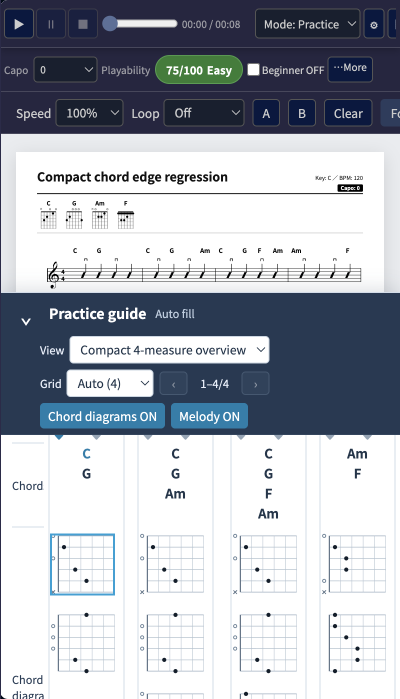
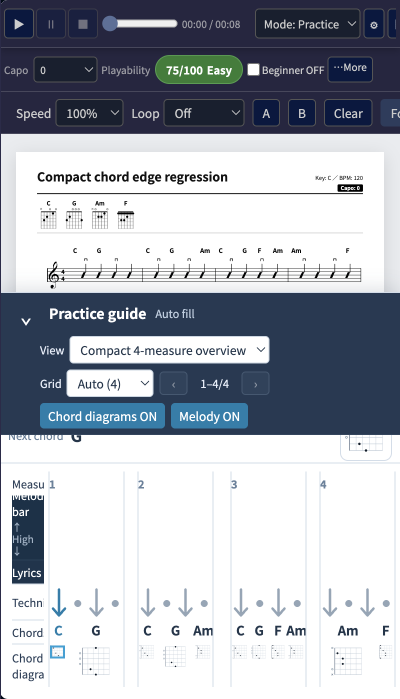
fix(practice): keep compact chord diagrams horizontal

diff --git a/tests/e2e/extension.test.ts b/tests/e2e/extension.test.ts
@@ -1032,8 +1032,8 @@ suite('GuitarDSL Extension E2E Test Suite', () => {
                 panelBackground: getComputedStyle(panel).backgroundColor,
                 diagramCount: diagrams.length,
                 diagramsSquare: diagramGeometry.length > 0 && diagramGeometry.every(item => item.viewBox === '0 0 144 144'
-                  && parseFloat(item.computedWidth) <= 144.5
-                  && Math.abs(parseFloat(item.computedWidth) - item.expectedWidth) <= 1
+                  && parseFloat(item.computedWidth) > 0
+                  && parseFloat(item.computedWidth) <= Math.min(144.5, item.expectedWidth + 1)
                   && Math.abs(parseFloat(item.computedHeight) - parseFloat(item.computedWidth)) <= 1),
                 diagramGeometry,
                 techniqueMarkCount: technique?.querySelectorAll('[data-guide-stroke]').length ?? 0,
@@ -1074,7 +1074,7 @@ suite('GuitarDSL Extension E2E Test Suite', () => {
             assert.strictEqual(compact.panelBackground, 'rgb(255, 255, 255)', 'compact mode keeps the approved white background');
             assert.ok(compact.diagramCount > 0, 'the active bank shows generated chord diagrams');
             assert.strictEqual(compact.diagramsSquare, true,
-              `${width}px diagrams keep their 144x144 viewBox and fit their card: ${JSON.stringify(compact.diagramGeometry)}`);
+              `${width}px diagrams keep their 144x144 viewBox, scale to available intervals, and fit their card: ${JSON.stringify(compact.diagramGeometry)}`);
             assert.ok(compact.compactDiagramCenterOffsetMax <= 2,
               `${width}px compact diagrams use the shared beat-to-x mapping: ${compact.compactDiagramCenterOffsetMax}px`);
             assert.ok(compact.compactChordLabelCenterOffsetMax <= 2,
@@ -1842,14 +1842,22 @@ suite('GuitarDSL Extension E2E Test Suite', () => {
           cardCount: cards.length,
           counts: cards.map(card => card.querySelectorAll('.practice-guide-compact-diagram-event').length),
           rows: cards.map(card => [...card.querySelectorAll('.practice-guide-compact-chord-name')].map(item => Number(item.dataset.guideRow))),
+          diagramRows: cards.map(card => [...card.querySelectorAll('.practice-guide-compact-diagram-event')].map(item => Number(item.dataset.guideRow))),
+          diagramBounds: cards.map(card => [...card.querySelectorAll('.practice-guide-compact-diagram-event svg.practice-guide-diagram')]
+            .map(diagram => { const rect = diagram.getBoundingClientRect(); return { left: rect.left, right: rect.right, top: rect.top }; })),
           pairs
         };
       })())`));
       assert.strictEqual(geometry.viewportWidth, 400, 'the compact guide is rendered at the reviewed 400px viewport');
       assert.strictEqual(geometry.cardCount, 4, 'all four measure cards are visible');
       assert.deepStrictEqual(geometry.counts, [2, 3, 4, 2], 'the fixture covers measures with two, three, and four chords');
-      assert.ok(geometry.rows.every((rows: number[], index: number) => new Set(rows).size === geometry.counts[index]),
-        `short edge spans are packed into separate visual rows: ${JSON.stringify(geometry.rows)}`);
+      assert.ok(geometry.rows.every((rows: number[]) => rows.every(row => row === 0)),
+        `chord names remain on one horizontal row: ${JSON.stringify(geometry.rows)}`);
+      assert.ok(geometry.diagramRows.every((rows: number[]) => rows.every(row => row === 0)),
+        `chord diagrams remain on one horizontal row: ${JSON.stringify(geometry.diagramRows)}`);
+      assert.ok(geometry.diagramBounds.every((bounds: { left: number; right: number; top: number }[]) =>
+        bounds.every((item, index) => index === 0 || (item.left >= bounds[index - 1].right - 1 && Math.abs(item.top - bounds[0].top) <= 3))),
+      `horizontal chord diagrams do not overlap and share one baseline: ${JSON.stringify(geometry.diagramBounds)}`);
       assert.strictEqual(geometry.pairs.length, 11, 'all chord events have a generated diagram');
       assert.ok(geometry.pairs.every((pair: { samePack: boolean; nameChord: string | null; chord: string; aligned: boolean; domCenterOffset: number; diagramInside: boolean; nameInside: boolean; diagramWidth: number; fingerDots: number }) =>
         pair.samePack && pair.nameChord === pair.chord && pair.aligned && pair.diagramInside && pair.nameInside
@@ -1866,6 +1874,74 @@ suite('GuitarDSL Extension E2E Test Suite', () => {
         const image = await fs.readFile(path.resolve(__dirname, '../../../docs/status/evidence/issue-162', filename));
         assert.ok(image.length >= 5000 && image.readUInt32BE(16) === 400,
           'compact chord bounds evidence is captured at the exact 400px viewport');
+      }
+      await resetPreviewWebviewViewport();
+    });
+  });
+
+  test('Issue #162 sample_gozen0jino_page chord diagrams stay in horizontal playback order', async function () {
+    this.timeout(60000);
+    await withWorkbenchSnapshotRestored(async () => {
+      const samplePath = path.resolve(__dirname, '../../../samples/sample_gozen0jino_page.guitardsl');
+      const source = await fs.readFile(samplePath, 'utf8');
+      const doc = await vscode.workspace.openTextDocument({ language: 'guitardsl', content: source });
+      await showAndFocus(doc);
+      await vscode.commands.executeCommand('guitardsl.showPreview', doc.uri);
+      await waitForPreviewDocument();
+      await setPreviewPracticeEnabled(true);
+      await evaluatePreviewWebview<void>("(() => { const view = document.getElementById('practice-guide-view'); view.value = 'compact'; view.dispatchEvent(new Event('change', { bubbles: true })); })()");
+      await setPreviewWebviewViewportWidth(400);
+      await settle(250);
+      for (let page = 0; page < 2; page++) {
+        await evaluatePreviewWebview<void>("document.getElementById('practice-guide-compact-next').click()");
+        await settle(120);
+      }
+      const geometry = JSON.parse(await evaluatePreviewWebview<string>(`JSON.stringify((() => {
+        const cards = [...document.querySelectorAll('#practice-guide-pair-page .practice-guide-compact-measure')];
+        return {
+          viewportWidth: window.innerWidth,
+          measures: cards.map(card => Number(card.dataset.guideMeasureIndex)),
+          cards: cards.map(card => {
+            const cardRect = card.getBoundingClientRect();
+            const diagrams = [...card.querySelectorAll('.practice-guide-compact-diagram-event')].map(diagramEvent => {
+              const diagram = diagramEvent.querySelector('svg.practice-guide-diagram');
+              const rect = diagram.getBoundingClientRect();
+              const name = [...card.querySelectorAll('.practice-guide-compact-chord-name')]
+                .find(item => item.dataset.guidePackKey === diagramEvent.dataset.guidePackKey);
+              return { chord: diagramEvent.dataset.guideChord, nameChord: name?.dataset.guideChord ?? null,
+                row: Number(diagramEvent.dataset.guideRow), left: rect.left, right: rect.right, top: rect.top,
+                inside: rect.left >= cardRect.left - 1 && rect.right <= cardRect.right + 1,
+                fingerDots: diagram.querySelectorAll('circle[fill="#121e2b"]').length };
+            });
+            return { chords: diagrams.map(item => item.chord), diagrams };
+          })
+        };
+      })())`));
+      assert.strictEqual(geometry.viewportWidth, 400, 'the named sample is checked at 400 CSS px');
+      assert.deepStrictEqual(geometry.measures, [4, 5, 6, 7], 'the sample page includes both measures with multiple chords');
+      assert.deepStrictEqual(geometry.cards.map((card: { chords: string[] }) => card.chords.length), [1, 1, 2, 2],
+        'the sample page contains two measures with two simultaneous chord changes');
+      for (const card of geometry.cards) {
+        assert.ok(card.diagrams.every((diagram: { row: number }) => diagram.row === 0),
+          `sample measure diagrams use one horizontal row: ${JSON.stringify(card.diagrams)}`);
+        assert.ok(card.diagrams.every((diagram: { inside: boolean; fingerDots: number; nameChord: string | null; chord: string }) =>
+          diagram.inside && diagram.fingerDots > 0 && diagram.nameChord === diagram.chord),
+        `sample chord names, diagrams, and finger dots remain visible: ${JSON.stringify(card.diagrams)}`);
+        assert.ok(card.diagrams.every((diagram: { left: number; right: number; top: number }, index: number) =>
+          index === 0 || (diagram.left >= card.diagrams[index - 1].right - 1 && Math.abs(diagram.top - card.diagrams[0].top) <= 3)),
+        `sample chord diagrams stay side by side without overlap: ${JSON.stringify(card.diagrams)}`);
+      }
+
+      if (process.env.GUITARDSL_E2E_CAPTURE_SCREENSHOTS === '1') {
+        const locale = vscode.env.language.toLowerCase().split('-')[0];
+        const theme = (process.env.GUITARDSL_E2E_THEME ?? 'Default Dark Modern').toLowerCase().includes('light') ? 'light' : 'dark';
+        const filename = `practice-guide-horizontal-sample-issue162-${locale}-${theme}-400.png`;
+        await evaluatePreviewWebview<void>("(() => { const layout = document.querySelector('.practice-guide-layout'); const chordLane = document.querySelector('.practice-guide-compact-measure [data-guide-lane=\"chord\"]'); layout.scrollTop += chordLane.getBoundingClientRect().top - layout.getBoundingClientRect().top - 8; })()");
+        await settle(200);
+        await capturePreviewWebviewScreenshot(filename, 162, 400);
+        const image = await fs.readFile(path.resolve(__dirname, '../../../docs/status/evidence/issue-162', filename));
+        assert.ok(image.length >= 5000 && image.readUInt32BE(16) === 400,
+          'the original sample receives exact-width compact chord evidence');
       }
       await resetPreviewWebviewViewport();
     });

diff --git a/src/render/previewHtml.ts b/src/render/previewHtml.ts
@@ -2136,11 +2136,38 @@ ${cspMeta}
         const key = [slotWidth.toFixed(3), grid, melodyVisible, diagramsVisible].join(':');
         if (guideCompactLayoutKey === key) return guideCompactLayout;
         const maxRows = { lyrics: 0, technique: 0, chord: 0 };
+        let diagramSize = 0;
         const measureLayouts = [];
         const inset = 5;
         const pack = (items, measureBeats, lane) => {
           const rowRights = [];
           const ordered = [...items].sort((a, b) => a.beat - b.beat || a.event - b.event || a.order - b.order);
+          if (lane === 'chord') {
+            const centers = ordered.map(item => inset + item.beat / measureBeats * Math.max(0, slotWidth - inset * 2));
+            for (let index = 0; index < ordered.length; index++) {
+              const item = ordered[index];
+              const centerX = centers[index];
+              const halfRoom = Math.min(
+                centerX - inset,
+                slotWidth - inset - centerX,
+                index > 0 ? (centerX - centers[index - 1]) / 2 : Number.POSITIVE_INFINITY,
+                index + 1 < centers.length ? (centers[index + 1] - centerX) / 2 : Number.POSITIVE_INFINITY
+              );
+              item.width = Math.max(1, Math.min(item.width, halfRoom * 2 - 2));
+              for (const node of item.nodes) {
+                node.dataset.guideRow = '0';
+                node.dataset.guideLayoutX = String(centerX);
+                node.dataset.guideLayoutWidth = String(Math.min(
+                  Math.max(1, Number(node.dataset.guideLayoutWidth) || item.width), item.width
+                ));
+                if (node.classList.contains('practice-guide-compact-diagram-event')) {
+                  diagramSize = Math.max(diagramSize, Number(node.dataset.guideLayoutWidth) || 0);
+                }
+              }
+            }
+            maxRows.chord = Math.max(maxRows.chord, ordered.length > 0 ? 1 : 0);
+            return;
+          }
           for (const item of ordered) {
             const x = inset + item.beat / measureBeats * Math.max(0, slotWidth - inset * 2);
             const centerX = Math.max(inset + item.width / 2, Math.min(slotWidth - inset - item.width / 2, x));
@@ -2211,7 +2238,6 @@ ${cspMeta}
           pack([...laneItems.chord.values()], measureBeats, 'chord');
           measureLayouts.push({ occurrenceIndex, svg });
         }
-        const diagramSize = Math.max(0, Math.min(144, slotWidth - 10));
         const laneHeights = {
           ruler: 24,
           melody: melodyVisible ? 64 : 0,
@@ -2333,9 +2359,9 @@ ${cspMeta}
             const text = item.querySelector('text');
             const y = rowY + 16;
             item.setAttribute('transform', 'translate(' + x.toFixed(3) + ' ' + y.toFixed(3) + ')');
-            fitCompactSvgText(text, Math.max(0, slotWidth - 10));
+            fitCompactSvgText(text, Number(item.dataset.guideLayoutWidth) || Math.max(0, slotWidth - 10));
           } else if (lane === 'chord-pair' && item.classList.contains('practice-guide-compact-diagram-event')) {
-            const size = layout.diagramSize;
+            const size = Number(item.dataset.guideLayoutWidth) || layout.diagramSize;
             const y = rowY;
             item.setAttribute('transform', 'translate(' + (x - size / 2).toFixed(3) + ' ' + y.toFixed(3) + ')');
             const nested = item.querySelector('svg');

diff --git a/docs/status/implementation-status.md b/docs/status/implementation-status.md
@@ -13,9 +13,9 @@
 - **状態**: 承認済みImplementation Contract v2を実装し、PR #163の最新レビュー指摘3件を修正した。[PR #163](https://github.com/puchinya/vscode-guitar-dsl/pull/163) はopen。レビュー・CI・current-HEAD self-reviewの最新状態はPR記録を参照。
[1 lines of base64/hex data omitted]
 - **仕様 / 設計 / Help**: `docs/specs/gui_design.md` §2.4、`docs/specs/extension.md` §4.6、`docs/design/preview-rendering-and-export.md` を更新。英語・日本語Helpとmanifestを同期し、生成済み `media/help/` も更新した。
-- **実装**: コンパクト表示を単一SVG座標系へ統一し、実測幅で等幅4スロットを配置する。コード名と図をカード境界内にクランプし、その可視矩形で行を割り当てる。コード省略時は再生出現ごとに直前コードと図を引き継ぎ、明示的な `N.C.` で解除する。継続波は選択グリッドと現在Fractionの1マークだけをcurrent表示する。細いviewportでの奏法記号折返しとカード内縮小、次コード領域の維持、TAB/リズムtie記号とFraction波線、実効BPMに応じた450–900ms fade、fade timer cleanupとreduced-motionも実装した。
-- **画面証拠**: [60枚の実Previewキャプチャと検査条件](evidence/issue-162/README.md)に加えて、レビュー指摘用に400pxの短いコード区間と図を撮影した。E2Eは2/3/4コードの名前・図ペア、図と文字の実DOM境界、指押さえ点、行パックを検査する。
-- **検証**: macOS arm64 / VS Code 1.144.0。修正後の `npm test` はHelp/AI同期PASS、unit **1,229件PASS**、E2E **125件PASS / 6件pending / 0件FAIL**。320–1600px、グリッド4/8/16、密集奏法、rhythm/TAB tie、継続波の16分位置とexclusive end、短区間コード図境界、repeat/volta再生順コード継承、実効テンポfade、速度変更、Pause/Resume、seek、resize、compact/detail切替、AB loop、pagehide disposal、fallback timer、reduced-motionを確認した。`npm test` 内のcompile:all、`check:help`、`check:ai`もPASS。
+  - **実装**: コンパクト表示を単一SVG座標系へ統一し、実測幅で等幅4スロットを配置する。コードダイアグラムは必ず小節内の横一列に置き、コード区間と隣接ダイアグラムの間隔に合わせて幅を調整してカード境界内に収める。コード名も同じ時間位置に合わせる。コード省略時は再生出現ごとに直前コードと図を引き継ぎ、明示的な `N.C.` で解除する。継続波は選択グリッドと現在Fractionの1マークだけをcurrent表示する。細いviewportでの奏法記号折返しとカード内縮小、次コード領域の維持、TAB/リズムtie記号とFraction波線、実効BPMに応じた450–900ms fade、fade timer cleanupとreduced-motionも実装した。
+- **画面証拠**: [60枚の実Previewキャプチャと検査条件](evidence/issue-162/README.md)に加えて、レビュー指摘用に400pxの短いコード区間と実サンプル `sample_gozen0jino_page` を撮影した。E2Eは2/3/4コードの名前・図ペア、図と文字の実DOM境界、指押さえ点、横並び、隣接図の非重複を検査する。
+- **検証**: macOS arm64 / VS Code 1.144.0。`check:help` / `check:ai` PASS、unit **1,229件PASS**。現行テストでのIssue #162 focused E2Eは **10件PASS**。全体 `npm test` の最新実行はE2E **9件PASS / 6件pending / 3件FAIL** で、Extension Development Hostの前面化timeoutが発生して完走しなかった。320–1600px、グリッド4/8/16、密集奏法、rhythm/TAB tie、継続波の16分位置とexclusive end、400pxコード図横並び・境界・repeat/volta再生順コード継承、実効テンポfade、速度変更、Pause/Resume、seek、resize、compact/detail切替、AB loop、pagehide disposal、fallback timer、reduced-motionを確認した。全体E2Eの未解決結果はPASSとは扱わない。
 - **PR / Completion Report**: [PR #163](https://github.com/puchinya/vscode-guitar-dsl/pull/163)。レビュー・CIの最新状態はPR記録を参照。Windows/Linux、VoiceOver/NVDAの手動確認はNOT RUN。
 
 ## Issue #160: 歌唱ブラケットとギター譜表ブレース

diff --git a/docs/status/evidence/issue-162/README.md b/docs/status/evidence/issue-162/README.md
@@ -26,7 +26,8 @@ The screenshots capture the visual implementation at source commit `c7d1f9d2f992
 
 ## PR #163 review evidence
 
-The compact chord edge regression uses 2, 3, and 4 chord intervals in one four-measure page at an exact 400 CSS px Preview width. The E2E checks each chord name against its diagram pack key and transform center, reads both name and diagram DOM bounds against the card, confirms finger dots, and verifies that each interval occupies its own packed row.
+The compact chord edge regression uses 2, 3, and 4 chord intervals in one four-measure page at an exact 400 CSS px Preview width. Chord diagrams stay in one horizontal row in playback order; each pair scales to its available interval spacing. The E2E checks the name/diagram pair and center, reads both DOM bounds against the card, confirms finger dots, and verifies that neighboring diagrams do not overlap.
 
 - [EN Dark, 400 px, short chord spans and compact diagrams](practice-guide-compact-chord-bounds-issue162-en-dark-400.png)
+- [EN Dark, 400 px, `sample_gozen0jino_page` with horizontal chord diagrams](practice-guide-horizontal-sample-issue162-en-dark-400.png)
 - The EN Dark 400 px continuation-grid captures for grids 4, 8, and 16 were refreshed while running the same current-HEAD review E2E.
